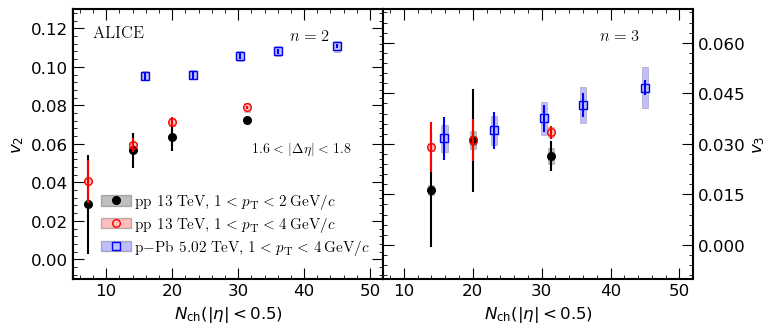
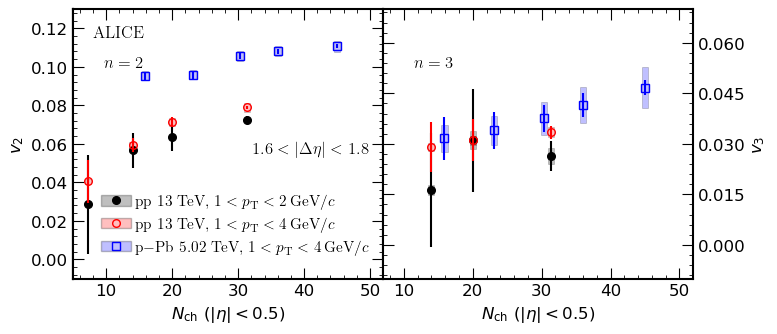
EB comments 3.

diff --git a/FIG5_vn_allSystems_comp_dataonly.py b/FIG5_vn_allSystems_comp_dataonly.py
@@ -39,7 +39,7 @@ rlimits = [(0.5,1.6),(0.,4.5)];
 # add labels for each pad
 plables = [ "$n = 2$", "$n = 3$" ];
 
-xtitle = ["$N_\\mathrm{ch}(|\eta|<0.5)$",""];
+xtitle = ["$N_\\mathrm{ch}$ $(|\eta|<0.5)$",""];
 ytitle = ["$v_{2}$","$v_{3}$"];
 
 # Following two must be added
@@ -58,7 +58,7 @@ plot = JPyPlotRatio.JPyPlotRatio(panels=(nrow,ncol),
 	panelPrivateRowBounds={1:(-0.01,0.07)},
 	majorTickMultiple=5,
 	systPatchWidth=0.02,
-	panelLabelLoc=(0.7,0.90),panelLabelSize=12,panelLabelAlign="left",
+	panelLabelLoc=(0.10,0.80),panelLabelSize=12,panelLabelAlign="left",
 	#legendPanel={0:0,1:0,2:0},
 	legendPanel={0:0,1:0},
 	#legendLoc={0:(0.68,0.34),1:(0.49,0.5),2:(0.68,0.14)},
@@ -90,7 +90,7 @@ for i,s in enumerate(data):
 #plot.GetPlot().text(0.18,0.80,"ALICE",fontsize=12);
 plot.GetPlot().text(0.15,0.80,"ALICE",fontsize=12);
 #plot.GetPlot().text(0.45,0.58,"$1.6<|\Delta\eta|<1.8$",fontsize=9);
-plot.GetPlot().text(0.35,0.47,"$1.6<|\Delta\eta|<1.8$",fontsize=10);
+plot.GetPlot().text(0.35,0.47,"$1.6<|\Delta\eta|<1.8$",fontsize=12);
 
 #-----------------------------------------------------------
 
